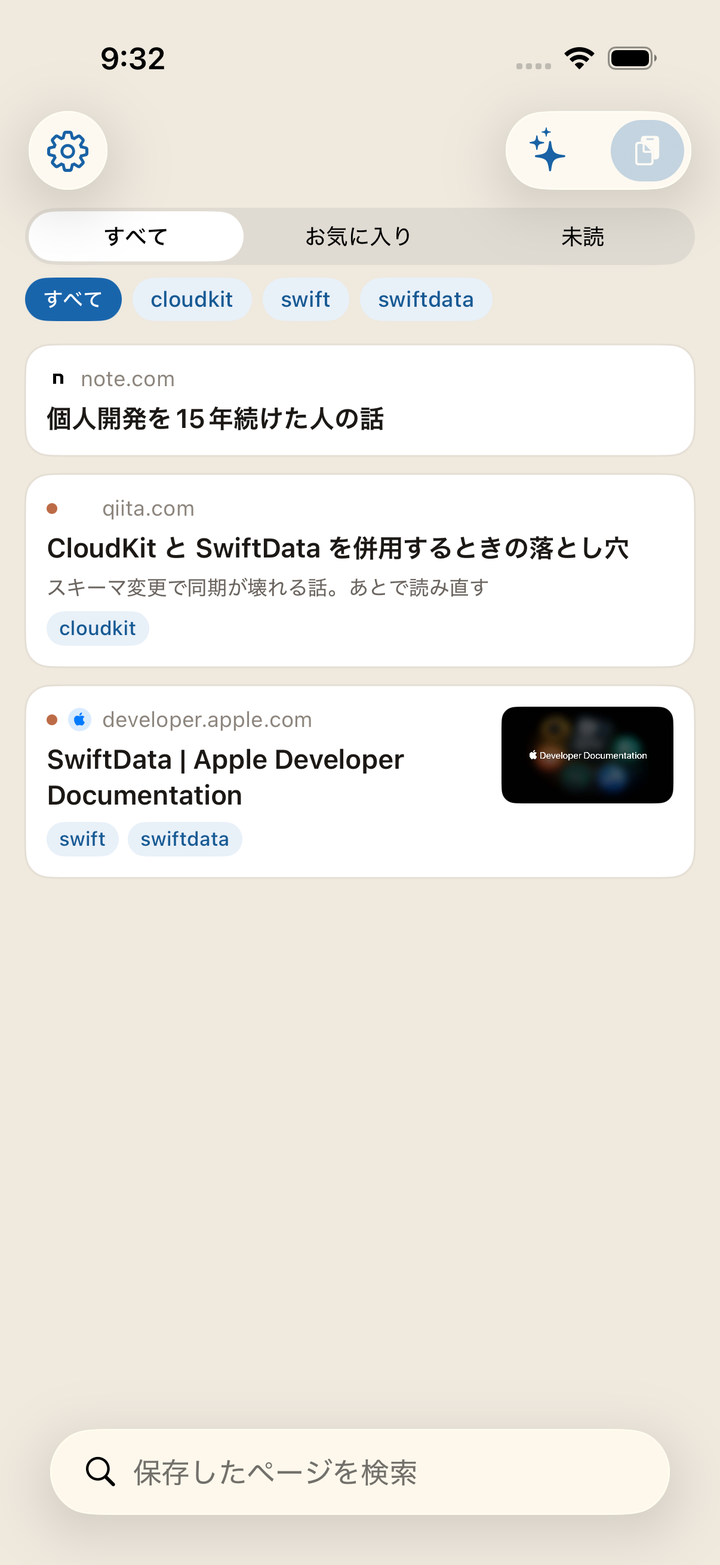
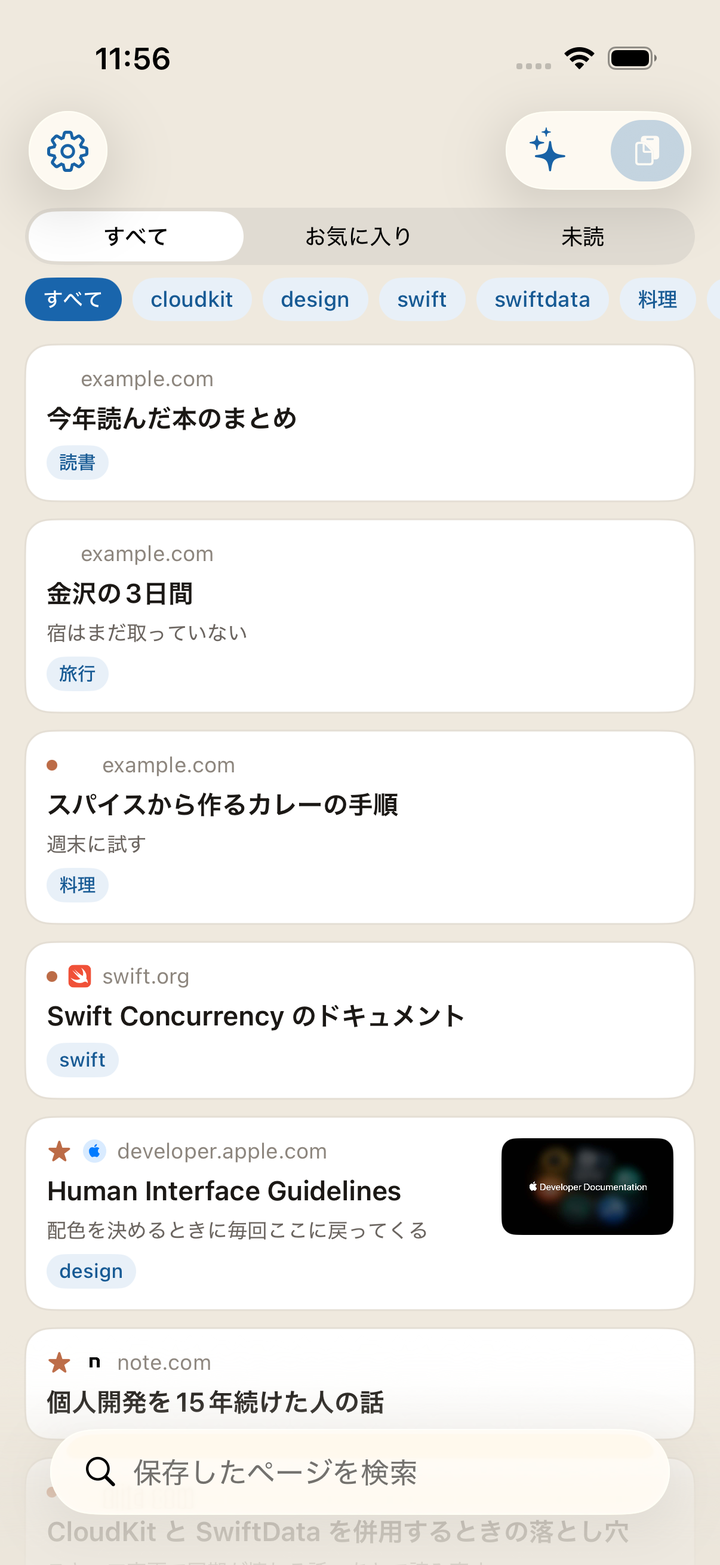
操作画像を厚いサンプルで撮り直し、「聞く」を独立した節にする
一覧のスクショが3件しか入っておらず、画面の下半分が白いままヒーローに載っていた。
UIテストの投入を `-seed-store`（8件）に替えて撮り直す。

- shots 7枚を差し替え、`08-ask.png` を追加
- トップの「聞く」をカードから画像つきの節へ格上げ
- 空いた「そのほか」に iCloud 同期を入れる
- 使い方ページの「見つける」にも「聞く」の画像を並べる

Claude-Session: https://claude.ai/code/session_01Ws87CrHwXtA3AXDqXZdQcd

diff --git a/index.html b/index.html
@@ -80,6 +80,21 @@
 <div class="wrap">
   <div class="feature rev">
     <figure>
+      <img src="shots/08-ask.png" alt="「聞く」の画面。質問の下に答えが出て、その下に参照した項目が並びます。" loading="lazy">
+    </figure>
+    <div class="body">
+      <h2>聞く</h2>
+      <p>貯めたものの傾向や使い方を、ことばで尋ねられます。答えの下に参照した項目が並ぶので、そのまま開けます。</p>
+      <p><strong>端末の中だけで動き、外へは送りません。</strong>Apple Intelligence に対応した端末でのみ使えます。</p>
+    </div>
+  </div>
+</div>
+</div>
+
+<div class="band">
+<div class="wrap">
+  <div class="feature">
+    <figure>
       <img src="shots/07-mute.png" alt="ミュートの設定。URL やタイトルの文字列と、タグ単位。登録を残したままオフにできます。" loading="lazy">
     </figure>
     <div class="body">
@@ -91,9 +106,9 @@
 </div>
 </div>
 
-<div class="band">
+<div class="band band-alt">
 <div class="wrap">
-  <div class="feature">
+  <div class="feature rev">
     <figure>
       <img src="shots/06-settings.png" alt="設定のセキュリティ。アプリロックは既定でオフです。オンにすると、開くときに確認します。" loading="lazy">
     </figure>
@@ -113,13 +128,13 @@
 </div>
 </div>
 
-<div class="band band-alt">
+<div class="band">
 <div class="wrap">
   <h2>そのほかにできること</h2>
   <div class="grid2">
     <div class="card">
-      <h3>聞く</h3>
-      <p>貯めたものの傾向や使い方を、ことばで尋ねられます。端末の中だけで動き、外へは送りません（対応端末のみ）。</p>
+      <h3>どの端末でも同じ</h3>
+      <p>同じ Apple アカウントの端末に出てきます。アカウント登録の操作はありません。</p>
     </div>
     <div class="card">
       <h3>控えを持つ</h3>
@@ -132,7 +147,7 @@
 </div>
 </div>
 
-<div class="band">
+<div class="band band-alt">
 <div class="wrap">
   <h2>使い方</h2>
   <p>

diff --git a/guide.html b/guide.html
@@ -111,6 +111,10 @@
     <img src="shots/01-list.png" alt="一覧。上のタブで すべて / お気に入り / 未読 を切り替え、その下のタグで絞り込みます。丸い印が未読です。" loading="lazy">
     <figcaption>一覧。上のタブで すべて / お気に入り / 未読 を切り替え、その下のタグで絞り込みます。丸い印が未読です。</figcaption>
   </figure>
+  <figure>
+    <img src="shots/08-ask.png" alt="「聞く」の画面。質問の下に答えが出て、その下に参照した項目が並びます。" loading="lazy">
+    <figcaption>聞く。答えの下に参照した項目が並ぶので、そのまま開けます。端末の中だけで動きます。</figcaption>
+  </figure>
 </div>
 
 <h2 id="open">3. 開く</h2>
